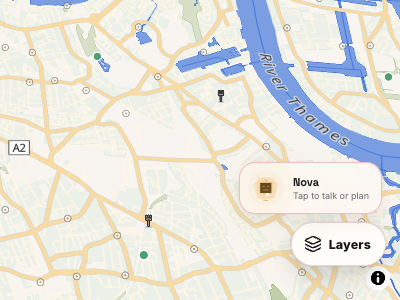
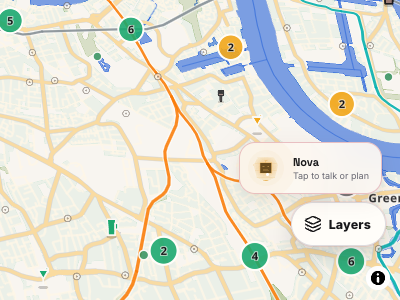
no-mistakes(review): Share Layers berth and clear attribution on phone and 641

diff --git a/components/pubpal/pubPal.css b/components/pubpal/pubPal.css
@@ -167,21 +167,23 @@
   /* On the phone map the plan pill is full width and the Near me FAB owns the
      right edge, so the summon pill stops short of that lane. */
   body:has(.mobilePlanActivation) .palSummon {
-    left: max(12px, env(safe-area-inset-left, 0px));
+    left: calc(
+      var(--mobile-map-stack-left) + var(--mobile-map-credit-size) + var(--float-stack-gap)
+    );
     right: calc(max(12px, env(safe-area-inset-right, 0px)) + 52px + 12px);
+  }
+  /* The OpenStreetMap credit opens across that band, so the pill yields to it. */
+  body:has(.mapStage .maplibregl-compact-show) .palSummon {
+    display: none;
   }
 }
 @media (min-width: 641px) {
   .palSummon {
     bottom: 22px;
   }
-  /* Sit 8px above the 44px Layers FAB, which mapLayersControl.css parks above
-     the attribution control, in both its normal and consent berths. */
+  /* Sit 8px above the Layers FAB, on the berth app/globals.css publishes. */
   body:has(.mapStage) .palSummon {
-    bottom: calc(34px + 44px + 8px);
-  }
-  body:has(.mapStage):has(.analyticsConsentPrompt) .palSummon {
-    bottom: calc(var(--analytics-consent-clearance, 72px) + 54px + 44px + 8px);
+    bottom: calc(var(--map-layers-bottom) + var(--map-layers-fab-h) + 8px);
   }
   /* The open Layers panel rises from the FAB through this berth. */
   body:has(.mapLayersControl.isOpen) .palSummon {

diff --git a/components/map/mapLayersControl.css b/components/map/mapLayersControl.css
@@ -6,8 +6,9 @@
   display: block;
   position: absolute;
   right: 14px;
-  /* Clear MapLibre's expanded desktop attribution so its links own their taps. */
-  bottom: 34px;
+  /* Clear MapLibre's expanded desktop attribution so its links own their taps.
+     The berth follows the consent strip (app/globals.css). */
+  bottom: var(--map-layers-bottom);
   z-index: var(--z-map-hover);
   pointer-events: none;
 }
@@ -28,8 +29,8 @@
   align-items: center;
   justify-content: center;
   gap: 7px;
-  min-width: 44px;
-  min-height: 44px;
+  min-width: var(--map-layers-fab-h);
+  min-height: var(--map-layers-fab-h);
   padding: 0 14px 0 12px;
   border: 1px solid var(--control-secondary-border, var(--color-border));
   border-radius: 999px;
@@ -310,14 +311,6 @@
 .appShell.detail-open .mapLayersControl {
   opacity: 0;
   pointer-events: none;
-}
-
-@media (min-width: 641px) {
-  /* Keep Layers above the 44px attribution target and its 10px gap while the
-     consent strip occupies the map foot. The map still fills the viewport. */
-  body:has(.analyticsConsentPrompt) .appShell .mapStage .mapLayersControl {
-    bottom: calc(var(--analytics-consent-clearance, 72px) + 54px);
-  }
 }
 
 @media (max-width: 640px) {

diff --git a/app/globals.css b/app/globals.css
@@ -4610,6 +4610,12 @@ html[data-theme="dark"] .appShell .mapStage .maplibregl-ctrl-group button .mapli
 :root {
   --analytics-consent-clearance: 72px;
   --analytics-consent-mobile-clearance: 3.5rem;
+  /* The desktop map's Layers berth, read by Layers (mapLayersControl.css) and
+     by the Pub Pal shortcut parked one gap above it (pubPal.css). The 54px
+     clears attribution expanded onto two lines at 641px and its 10px margin. */
+  --map-layers-fab-h: 44px;
+  --map-layers-attrib-clearance: 54px;
+  --map-layers-bottom: var(--map-layers-attrib-clearance);
 }
 
 /* DOCKED, NEVER FLOATING. The card used to be an inset, blurred, shadowed
@@ -4748,6 +4754,12 @@ body:has(.maplibregl-canvas) .analyticsConsentPrompt {
      consent strip instead of adding a scrollable foot to the document. */
   body:has(.analyticsConsentPrompt) .appShell .mapStage .maplibregl-ctrl-bottom-right {
     bottom: var(--analytics-consent-clearance, 72px);
+  }
+
+  body:has(.analyticsConsentPrompt) {
+    --map-layers-bottom: calc(
+      var(--analytics-consent-clearance, 72px) + var(--map-layers-attrib-clearance)
+    );
   }
 
   body:has(.analyticsConsentPrompt) .mapSoftRetry {

diff --git a/components/mobile/mobileMapShell.css b/components/mobile/mobileMapShell.css
@@ -42,6 +42,10 @@
     );
     --mobile-map-stack-left: 12px;
     --mobile-map-stack-right: 12px;
+    /* The collapsed OpenStreetMap credit's 44px circle (below) at the left of
+       the band above the plan pill. The Pub Pal pill in that band starts
+       beside it (pubPal.css). */
+    --mobile-map-credit-size: 44px;
   }
 
   .mobileMapChrome {

diff --git a/docs/proof/skills-packages-2026-10-07/README.md b/docs/proof/skills-packages-2026-10-07/README.md
@@ -21,9 +21,13 @@ Computer Use checked pubmaxxing.com at desktop 1440 × 900 and mobile 390 × 844
 
 A desktop Pub Pal shortcut covered the venue drawer's Share action. A DOM hit check at Share's center returned the Pal link. The CSS change hides the floating shortcut only while the desktop right venue drawer is open. The left planner and landmark story drawers sit on the opposite edge and keep the shortcut. Local Computer Use verification confirmed that Share receives its center-point hit, the shortcut is hidden while the drawer is open, and it returns after the drawer closes and map banner staging permits it.
 
-A later production-build check found the attribution button clipping the shortcut's lower corner. A first fix at bottom 42px still covered the Layers button and, with the consent strip shown, the attribution button and the strip. On desktop map routes the shortcut now sits 8px above the 44px Layers button: bottom 86px normally, and the consent clearance plus 106px with the strip. It hides while the Layers panel is open, because the panel rises through that space. Other desktop routes retain the 22px position. The phone floating stack keeps its existing positions.
+A later production-build check found the attribution button clipping the shortcut's lower corner. A first fix at bottom 42px still covered the Layers button and, with the consent strip shown, the attribution button and the strip. The same check found two older attribution collisions. At 641 without the strip, expanded attribution wraps to two lines and the Layers button covered its collapse button. At 390 the phone shortcut covered the collapsed OpenStreetMap credit once the plan pill mounted, so a tap on the credit opened Pub Pal.
 
-A fresh production build was measured with a saved Pub Pal at 641, 1144 and 1440 × 900. At 1440 the shortcut spans y 762-814 above Layers at 822-866 and attribution at 866-890. With the consent strip it spans y 670-722 above Layers at 730-774, attribution at 794-818 and the strip at 844-900. At 1144 and 1440 a point hit at the center of each control reached that control, in both states and with attribution expanded. The 641 width showed the same vertical gaps. At 641 without the strip, expanded attribution wraps to two lines and the Layers button covers its collapse button. That predates this change and the shortcut does not touch it. At 1144 and 1440 the shortcut stays clear and tappable beside the left planner and story drawers, and it returns when the right venue drawer closes. At 641 both left drawers become full-width sheets above it. Share received its own center-point hit at all three widths. At 390 the shortcut covers the collapsed OpenStreetMap credit once the plan pill mounts. That also predates this change, which leaves the phone layout as it was.
+The desktop map now publishes one Layers berth in `app/globals.css`. Layers sits 54px up, which clears two-line expanded attribution and its 10px margin. With the consent strip it sits at the consent clearance plus 54px. The shortcut reads the same berth and sits 8px above the 44px Layers button. It hides while the Layers panel is open, because the panel rises through that space. Other desktop routes retain the 22px position. On the phone map the shortcut starts one gap to the right of the 44px credit, and it hides while the credit is expanded across that band. The plan pill, Near me and create positions are unchanged.
+
+A fresh production build was measured with a saved Pub Pal at 641, 1144 and 1440 × 900 and at 390 × 844. At every desktop width the shortcut spans y 742-794 above Layers at 802-846 and attribution at 866-890. With the consent strip it spans y 670-722 above Layers at 730-774, attribution at 794-818 and the strip at 844-900. A point hit at the center of the shortcut, Layers and the attribution button reached that control at all three widths, in both states, with attribution collapsed and expanded. At 641 the expanded attribution's collapse button now receives its own hit. At 1144 and 1440 the shortcut stays clear and tappable beside the left planner and story drawers. At 641 both left drawers are full-width sheets that sit above the shortcut, as before. At all three widths the shortcut returns when the right venue drawer closes, and Share receives its own center-point hit.
+
+At 390, with and without the consent strip, the credit spans x 12-56 and the shortcut x 68-314 on the same row. A tap on the credit expands it, and its first link receives its own hit. A second tap collapses it and the shortcut returns.
 
 ![Desktop map corner before, with the shortcut over Layers](desktop-corner-noconsent-before.png)
 
@@ -32,6 +36,18 @@ A fresh production build was measured with a saved Pub Pal at 641, 1144 and 1440
 ![Desktop map corner with the consent strip before](desktop-corner-consent-before.png)
 
 ![Desktop map corner with the consent strip after](desktop-corner-consent-after.png)
+
+![Expanded attribution at 641 before, with its collapse button under Layers](desktop-641-attribution-expanded-before.png)
+
+![Expanded attribution at 641 after, with Layers above it](desktop-641-attribution-expanded-after.png)
+
+![Phone map before, with the shortcut over the collapsed credit](phone-credit-collapsed-before.png)
+
+![Phone map after, with the credit beside the shortcut](phone-credit-collapsed-after.png)
+
+![Phone map before, with the shortcut over the expanded credit](phone-credit-expanded-before.png)
+
+![Phone map after, with the expanded credit clear](phone-credit-expanded-after.png)
 
 ![Production desktop Share action covered by Nova](desktop-share-before.png)
 
